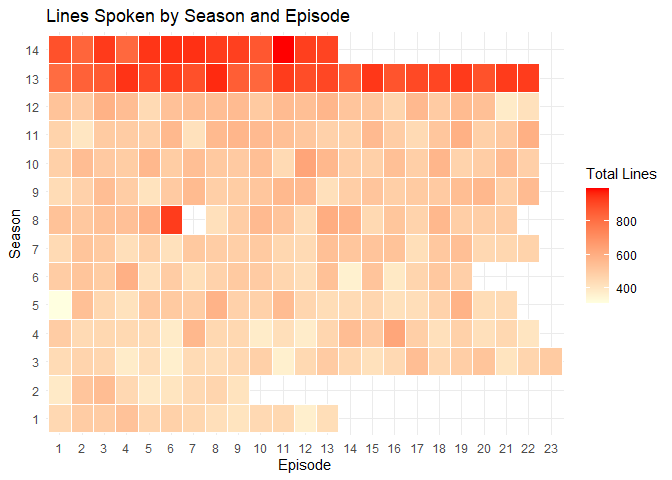
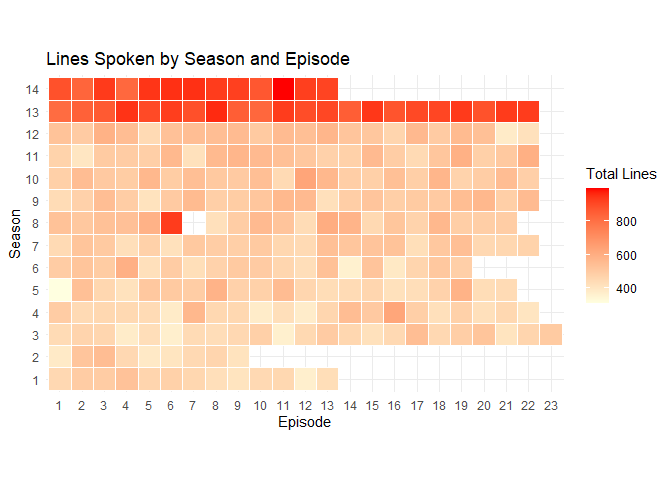
Update README.Rmd and add R CMD check workflow

diff --git a/README.knit.md b/README.knit.md
@@ -4,12 +4,7 @@ output: github_document
 
 <!-- README.md is generated from README.Rmd. Please edit that file -->
 
-```{r, echo=FALSE}
-library(bobsburgersR)
-suppressPackageStartupMessages(library(dplyr))
-suppressPackageStartupMessages(library(ggplot2))
-suppressPackageStartupMessages(library(tidyr))
-```
+
 
 
 # bobsburgersR <img src="img/bobsburgersR.png" align="right" height="240"/>
@@ -24,7 +19,8 @@ A collection of datasets on the [Bob's Burgers](https://www.fox.com/bobs-burgers
 
 Install from GitHub:
 
-```{r, eval = FALSE}
+
+``` r
 # install.packages("devtools")
 devtools::install_github("poncest/bobsburgersR")
 ```
@@ -84,10 +80,27 @@ devtools::install_github("poncest/bobsburgersR")
 
 This plot shows the distribution of IMDb ratings for each season, with individual episode ratings represented as jittered points.
 
-```{r, warning=FALSE}
+
+``` r
 data("imdb_wikipedia_data")
 head(imdb_wikipedia_data)
+```
 
+```
+## # A tibble: 6 × 12
+##    ...1 episode_overall imdb_aired_date  year season episode imdb_title   rating
+##   <dbl>           <dbl> <date>          <dbl>  <dbl>   <dbl> <chr>         <dbl>
+## 1     1               1 2011-01-08       2011      1       1 Human Flesh     7.7
+## 2     2               2 2011-01-15       2011      1       2 Crawl Space     8.1
+## 3     3               3 2011-01-22       2011      1       3 Sacred Cow      7.5
+## 4     4               4 2011-02-12       2011      1       4 Sexy Dance …    7.4
+## 5     5               5 2011-02-19       2011      1       5 Hamburger D…    7.5
+## 6     6               6 2011-03-05       2011      1       6 Sheesh! Cab…    8.3
+## # ℹ 4 more variables: synopsis <chr>, wikipedia_directed_by <chr>,
+## #   wikipedia_written_by <chr>, wikipedia_viewers <dbl>
+```
+
+``` r
 # Box Plot with Jitter: IMDb Ratings by Season
 
 ggplot(imdb_wikipedia_data, aes(x = as.factor(season), y = rating)) +
@@ -101,14 +114,31 @@ ggplot(imdb_wikipedia_data, aes(x = as.factor(season), y = rating)) +
   theme_minimal()
 ```
 
+![](README_files/figure-gfm/unnamed-chunk-3-1.png)<!-- -->
+
 ## Heatmap: Lines Spoken by Season and Episode
 
 The following heatmap shows the number of dialogue lines spoken in each episode across different seasons of Bob's Burgers.
 
-```{r, warning=FALSE, message=FALSE}
+
+``` r
 data("transcript_data")
 head(transcript_data)
+```
 
+```
+## # A tibble: 6 × 7
+##    ...1 season episode title        line raw_text                       dialogue
+##   <dbl>  <dbl>   <dbl> <chr>       <dbl> <chr>                          <chr>   
+## 1     1      1       1 Human Flesh     1 <NA>                           <NA>    
+## 2     2      1       1 Human Flesh     2 <NA>                           <NA>    
+## 3     3      1       1 Human Flesh     3 <NA>                           <NA>    
+## 4     4      1       1 Human Flesh     4 Listen, pep talk.              Listen,…
+## 5     5      1       1 Human Flesh     5 Big day today.                 Big day…
+## 6     6      1       1 Human Flesh     6 It's our grand re-re-re-openi… It's ou…
+```
+
+``` r
 ## Heatmap: Lines Spoken by Season and Episode
 
 # Summarize number of lines per episode per season
@@ -131,54 +161,15 @@ ggplot(heatmap_data, aes(x = as.factor(episode), y = as.factor(season), fill = t
   theme_minimal()
 ```
 
-# Folder Structure
+![](README_files/figure-gfm/unnamed-chunk-4-1.png)<!-- -->
 
-# Folder Structure
+# Folder
 
 The main folders in this package include:
 
-- `data-raw/`: Contains raw data files (`.csv`) and R scripts used for scraping and cleaning the data.
-- `data/`: Contains processed `.rda` files for easy access to the cleaned data.
-- `R/`: Contains R functions (`data_documentation.R`) that users can interact with.
-- `img/`: Contains images, including the package logo.
-- `man/`: Contains the documentation files (`.Rd`) for the package's data objects.
-
-Here's the detailed structure of the package:
-
-bobsburgersR/
-├── data-raw/
-│   ├── IMDb_Bobs_Burgers_Data.csv
-│   ├── IMDb_Wikipedia_Bobs_Burgers_Data_Clean.csv
-│   ├── Transcript_Bobs_Burgers_Data.csv
-│   ├── Wikipedia_Bobs_Burgers_Data.csv
-│   └── scraping/
-│       ├── 01_imdb_web_scrape.R
-│       ├── 02_wikipedia_web_scrape.R
-│       ├── 03_springfieldspringfield_scripts_web_scrape.R
-│       ├── 04_data_cleaning_imdb_wikipedia.R
-│       └── 04_data_cleaning_transcript.R
-├── data/
-│   ├── imdb_wikipedia_data.rda
-│   └── transcript_data.rda
-├── img/
-│   └── bobsburgersR.png
-├── man/
-│   ├── imdb_wikipedia_data.Rd
-│   └── transcript_data.Rd
-├── R/
-│   └── data_documentation.R
-├── LICENSE
-├── LICENSE.md
-├── README.md
-├── README.Rmd
-├── NAMESPACE
-├── NEWS.md
-├── .gitignore
-├── renv/
-│   ├── activate.R
-│   └── settings.json
-├── bobsburgersR.Rproj
-
+-   `data/`: Contains processed `.rda` files for easy access.
+-   `data-raw/`: Contains raw data and scripts used for processing the data.
+-   `R/`: Contains R functions that users can interact with.
 
 # Question/Contribute
 
@@ -189,4 +180,7 @@ If there is any data you would like to include or if you have suggestions, pleas
 1.  IMDb: [Episodes List](https://www.imdb.com/title/tt1561755/episodes/?season=1)
 2.  Wikipedia (episodes): [List of Bob's Burgers episodes](https://en.wikipedia.org/wiki/List_of_Bob%27s_Burgers_episodes#Episodes)
 3.  Springfield! Springfield! (episode scripts): [Springfield Springfield - Bob's Burgers scripts](https://www.springfieldspringfield.co.uk/episode_scripts.php?tv-show=bobs-burgers)
+
+# Folder Structure
+bobsburgersR/ ├── data-raw/ │ ├── IMDb_Bobs_Burgers_Data.csv │ ├── IMDb_Wikipedia_Bobs_Burgers_Data_Clean.csv │ ├── Transcript_Bobs_Burgers_Data.csv │ ├── Wikipedia_Bobs_Burgers_Data.csv │ ├── scraping/ │ │ ├── 01_imdb_web_scrape.R │ │ ├── 02_wikipedia_web_scrape.R │ │ ├── 03_springfieldspringfield_scripts_web_scrape.R │ │ ├── 04_data_cleaning_imdb_wikipedia.R │ │ └── 04_data_cleaning_transcript.R ├── data/ │ ├── imdb_wikipedia_data.rda │ └── transcript_data.rda ├── img/ │ └── bobsburgersR.png ├── man/ │ ├── imdb_wikipedia_data.Rd │ └── transcript_data.Rd ├── R/ │ └── data_documentation.R ├── LICENSE ├── LICENSE.md ├── README.md ├── README.Rmd ├── NAMESPACE ├── NEWS.md ├── .gitignore ├── renv/ │ ├── activate.R │ └── settings.json ├── bobsburgersR.Rproj └── README_files/ └── figure-gfm/ ├── unnamed-chunk-3-1.png └── unnamed-chunk-4-1.png
 

diff --git a/README.md b/README.md
@@ -3,6 +3,10 @@
 
 # bobsburgersR <img src="img/bobsburgersR.png" align="right" height="240"/>
 
+[![R-CMD-check](https://github.com/poncest/bobsburgersR/workflows/R-CMD-check/badge.svg)](https://github.com/poncest/bobsburgersR/actions)
+![Lifecycle](https://img.shields.io/badge/lifecycle-experimental-orange)
+![License](https://img.shields.io/badge/license-MIT-blue.svg)
+
 A collection of datasets on the [Bob’s
 Burgers](https://www.fox.com/bobs-burgers/) American animated sitcom.
 This package aims to provide easy access to data about the show,
@@ -139,18 +143,13 @@ head(transcript_data)
 heatmap_data <- transcript_data |>
   filter(!is.na(dialogue)) |>  
   group_by(season, episode) |>
-  summarize(total_lines = n()) |> 
-  ungroup()
-```
+  summarize(total_lines = n(), .groups = "drop") 
 
-    ## `summarise()` has grouped output by 'season'. You can override using the
-    ## `.groups` argument.
-
-``` r
 # Heatmap: Lines Spoken by Season and Episode
 ggplot(heatmap_data, aes(x = as.factor(episode), y = as.factor(season), fill = total_lines)) +
   geom_tile(color = "white") +
   scale_fill_gradient(low = "lightyellow", high = "red") +
+  coord_equal() +
   labs(
     title = "Lines Spoken by Season and Episode",
     x = "Episode",
@@ -187,3 +186,20 @@ repository](https://github.com/poncest/bobsburgersR/issues).
 3.  Springfield! Springfield! (episode scripts): [Springfield
     Springfield - Bob’s Burgers
     scripts](https://www.springfieldspringfield.co.uk/episode_scripts.php?tv-show=bobs-burgers)
+
+# Folder Structure
+
+bobsburgersR/ ├── data-raw/ │ ├── IMDb_Bobs_Burgers_Data.csv │ ├──
+IMDb_Wikipedia_Bobs_Burgers_Data_Clean.csv │ ├──
+Transcript_Bobs_Burgers_Data.csv │ ├── Wikipedia_Bobs_Burgers_Data.csv │
+├── scraping/ │ │ ├── 01_imdb_web_scrape.R │ │ ├──
+02_wikipedia_web_scrape.R │ │ ├──
+03_springfieldspringfield_scripts_web_scrape.R │ │ ├──
+04_data_cleaning_imdb_wikipedia.R │ │ └── 04_data_cleaning_transcript.R
+├── data/ │ ├── imdb_wikipedia_data.rda │ └── transcript_data.rda ├──
+img/ │ └── bobsburgersR.png ├── man/ │ ├── imdb_wikipedia_data.Rd │ └──
+transcript_data.Rd ├── R/ │ └── data_documentation.R ├── LICENSE ├──
+LICENSE.md ├── README.md ├── README.Rmd ├── NAMESPACE ├── NEWS.md ├──
+.gitignore ├── renv/ │ ├── activate.R │ └── settings.json ├──
+bobsburgersR.Rproj └── README_files/ └── figure-gfm/ ├──
+unnamed-chunk-3-1.png └── unnamed-chunk-4-1.png

diff --git a/NEWS.md b/NEWS.md
@@ -1,0 +1,3 @@
+# bobsburgersR 0.0.0.9
+
+* Initial version (dev).
